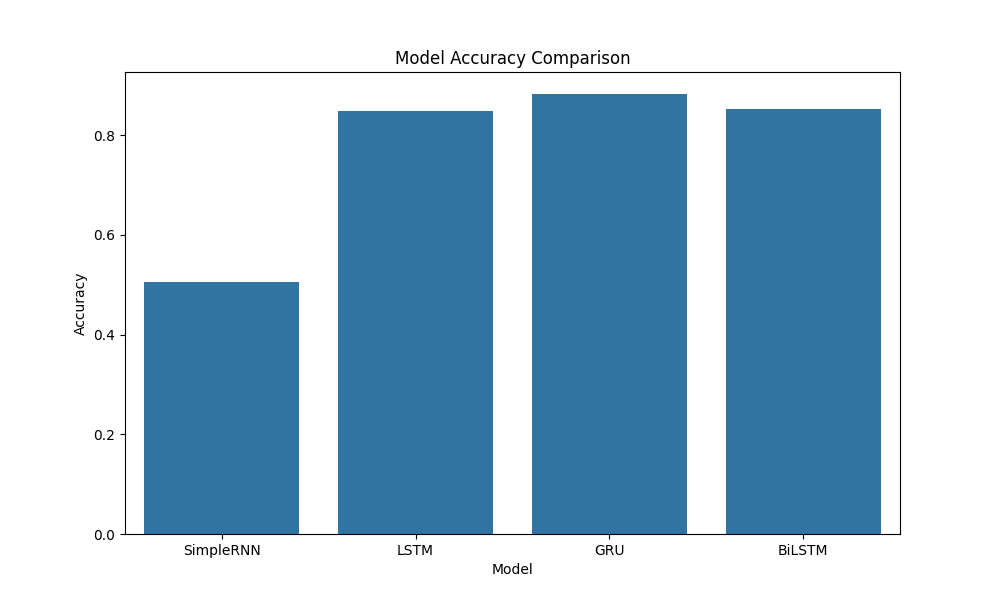
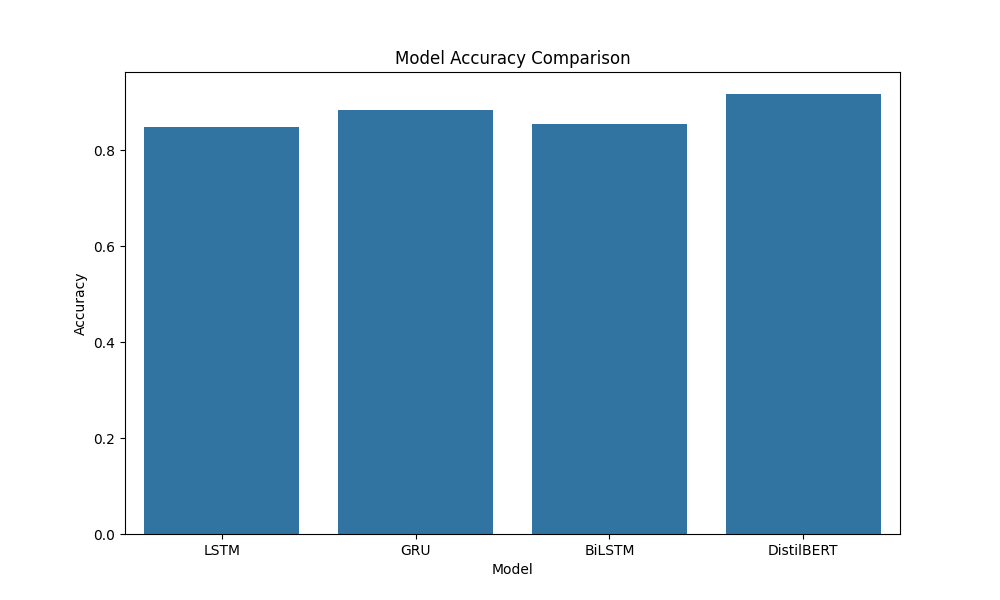
Updated README.md

diff --git a/README.md b/README.md
@@ -21,6 +21,8 @@
 
 CineSense is a deep learning powered movie review sentiment analysis platform that classifies movie reviews as **Positive** or **Negative** using multiple NLP architectures ranging from classical recurrent neural networks to transformer based models.
 
+**Live App:** [Access CineSense on Hugging Face Spaces](https://huggingface.co/spaces/anantj09/CineSense)
+
 The project combines:
 
 - Deep Learning for NLP
@@ -79,7 +81,7 @@ The system was trained on the IMDB Movie Reviews Dataset and supports multiple m
 
 # 🖥️ UI Screenshots
 
-## 🏠 Homepage
+## Homepage
 
 <p align="center">
   <img src="assets/screenshots/ui_mainpage_screenshot.png" width="95%">
@@ -87,7 +89,7 @@ The system was trained on the IMDB Movie Reviews Dataset and supports multiple m
 
 ---
 
-## 📊 Dashboard
+## Dashboard
 
 <p align="center">
   <img src="assets/screenshots/ui_dashboard_screenshot.png" width="95%">
@@ -97,40 +99,23 @@ The system was trained on the IMDB Movie Reviews Dataset and supports multiple m
 
 # 📈 Training & Evaluation Visualizations
 
-## 🔥 Model Accuracy Comparison
+## Model Convergence Metrics (DistilBERT & GRU)
 
 <p align="center">
-  <img src="assets/plots/model_comparison.png" width="80%">
+  <img src="assets/plots/DistilBERT_accuracy.png" width="48%" alt="DistilBERT Accuracy Curve">
+  <img src="assets/plots/GRU_accuracy.png" width="48%" alt="GRU Accuracy Curve">
 </p>
 
 ---
 
-## 🤖 DistilBERT Accuracy Curve
+## Benchmarks & GRU Hyperparameter Importance
 
 <p align="center">
-  <img src="assets/plots/DistilBERT_accuracy.png" width="75%">
-</p>
-
----
-
-## ⚡ GRU Accuracy Curve
-
-<p align="center">
-  <img src="assets/plots/GRU_accuracy.png" width="75%">
-</p>
-
----
-
-# 🎯 Hyperparameter Optimization
-
-Hyperparameter tuning was performed using **Optuna** to optimize recurrent architectures.
-
-<p align="center">
-  <img src="assets/screenshots/oputna_model_hyperparamters_importance.png" width="80%">
+  <img src="assets/plots/model_comparison.png" width="48%" alt="Model Accuracy Comparison">
+  <img src="assets/screenshots/oputna_model_hyperparamters_importance.png" width="48%" alt="Optuna Parameter Importance">
 </p>
 
 Optimized parameters included:
-
 - Learning Rate
 - Dropout
 - Dense Units
@@ -281,28 +266,28 @@ Training acceleration techniques:
 Build Docker Image:
 
 ```bash
-docker build -t cinesense-ai .
+docker build -t cinesense .
 ```
 
 Run Container:
 
 ```bash
-docker run -p 5000:5000 cinesense-ai
+docker run -p 7860:7860 cinesense
 ```
 
 ---
 
 # ▶️ Installation & Setup
 
-## 1️⃣ Clone Repository
+## Clone Repository
 
 ```bash
-git clone YOUR_GITHUB_LINK
+git clone https://github.com/anantj09/CineSense
 ```
 
 ---
 
-## 2️⃣ Create Environment
+## Create Environment
 
 ```bash
 conda create -n imdb_env python=3.10
@@ -311,7 +296,7 @@ conda activate imdb_env
 
 ---
 
-## 3️⃣ Install Requirements
+## Install Requirements
 
 ```bash
 pip install -r requirements.txt
@@ -319,7 +304,7 @@ pip install -r requirements.txt
 
 ---
 
-## 4️⃣ Run Application
+## Run Application
 
 ```bash
 python app.py
@@ -332,7 +317,7 @@ python app.py
 Open browser:
 
 ```bash
-http://127.0.0.1:5000
+http://127.0.0.1:7860
 ```
 
 ---